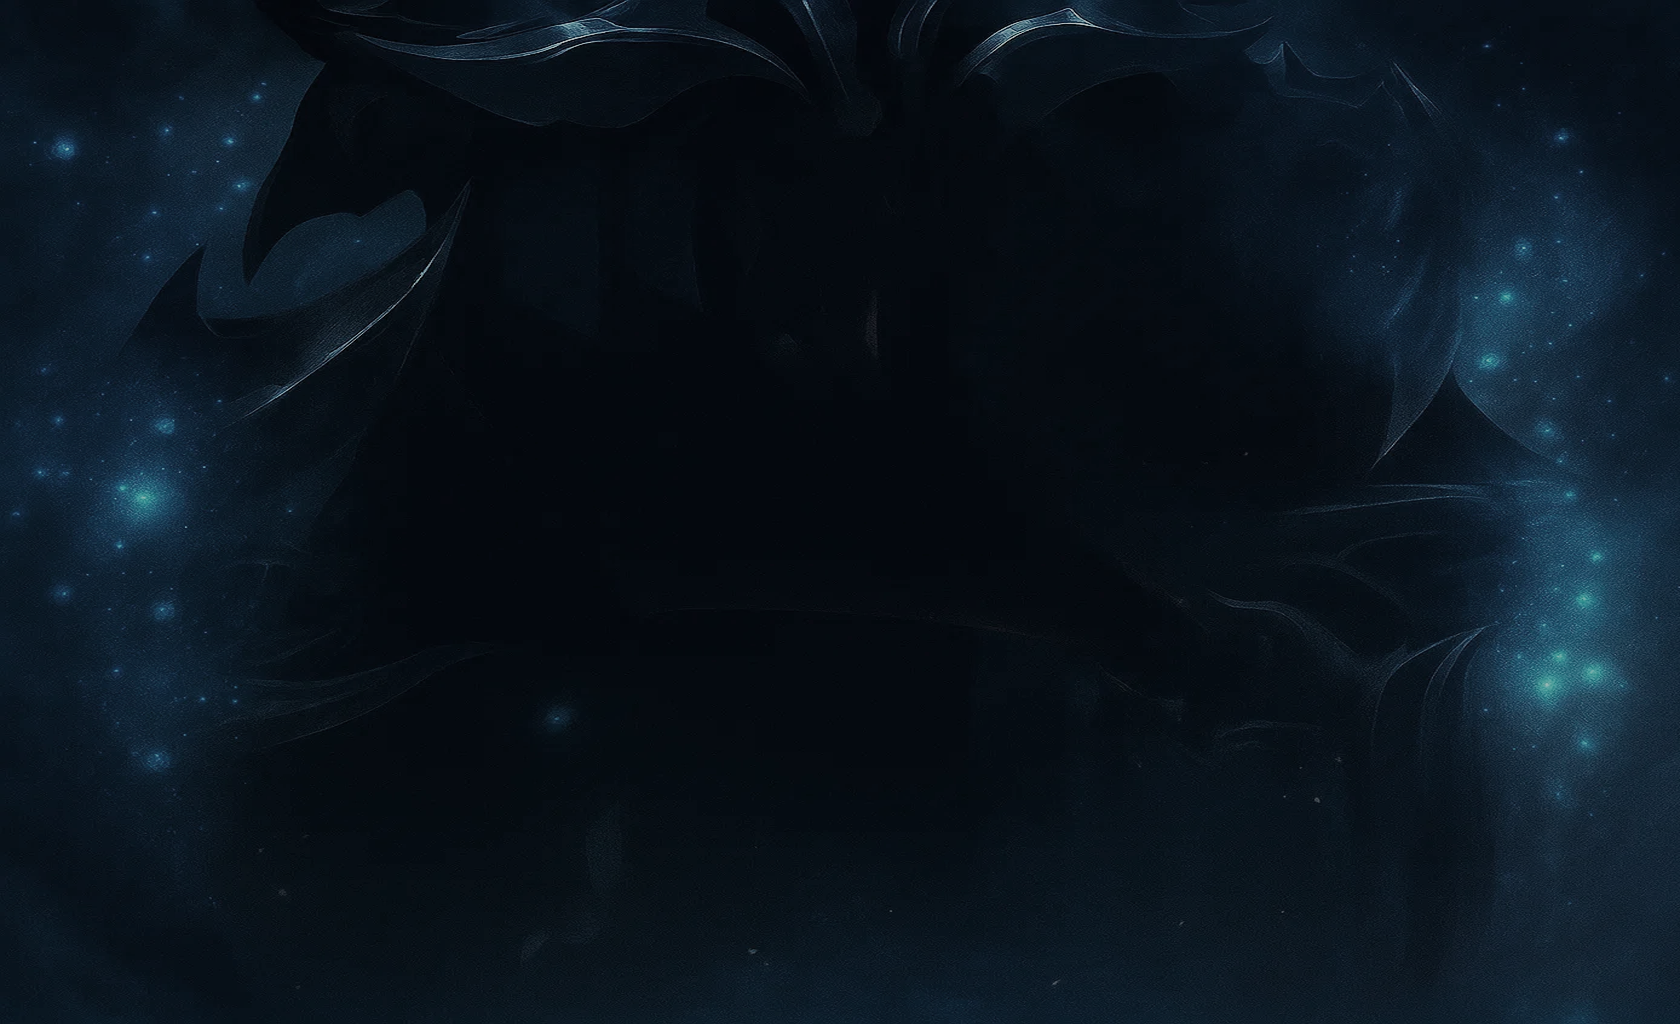
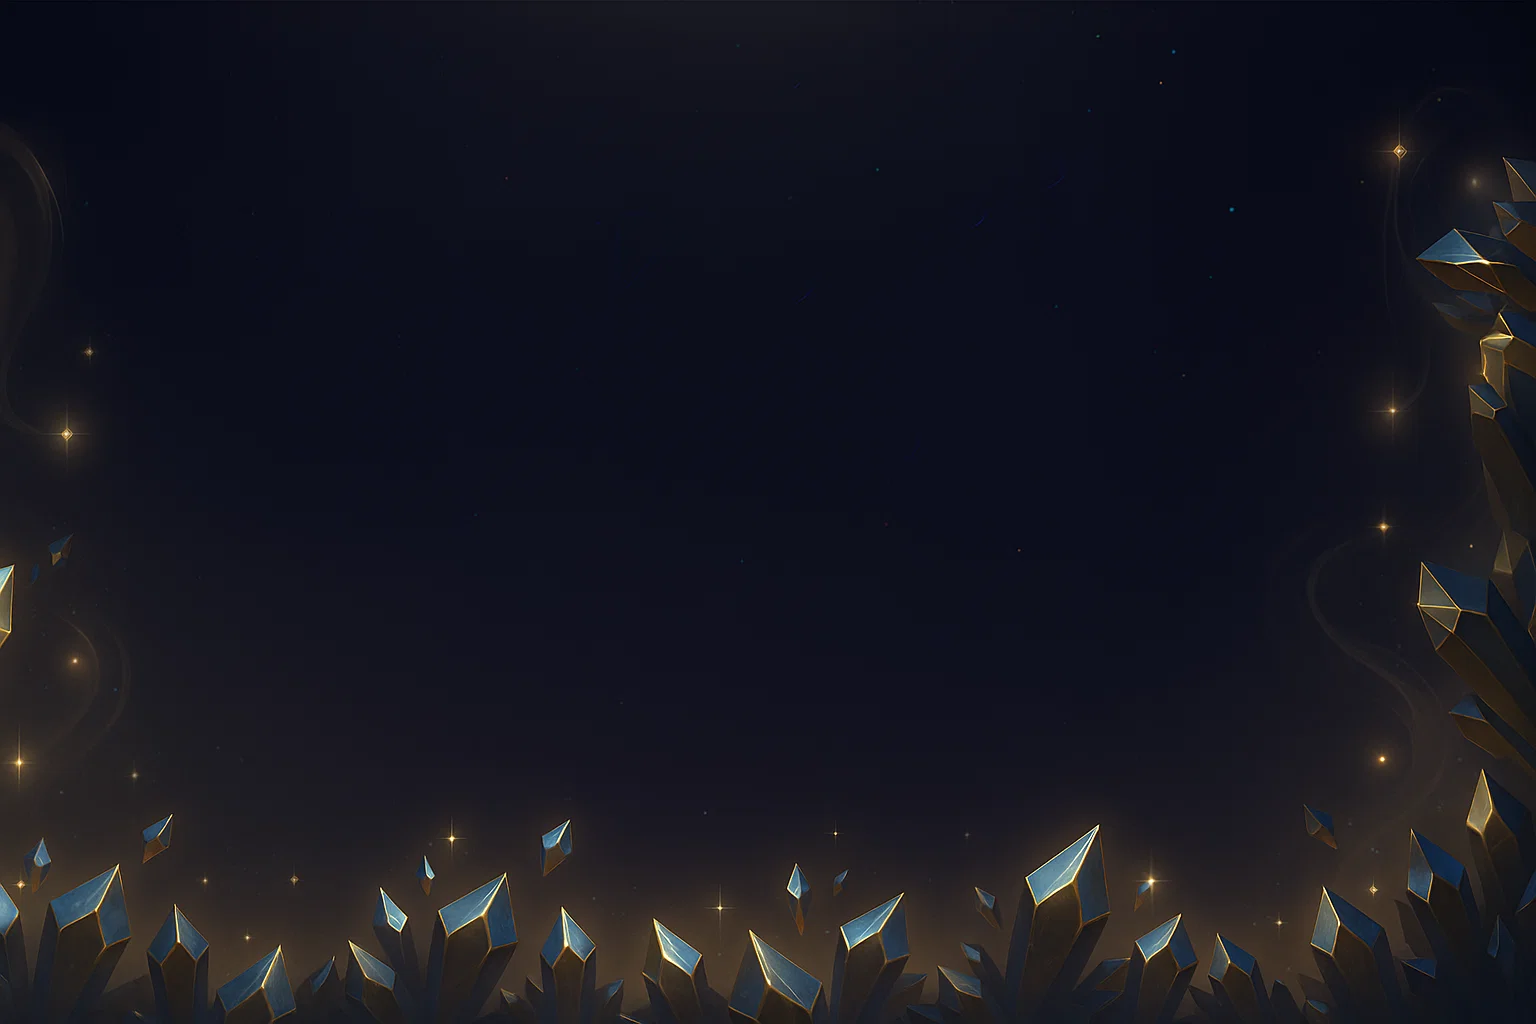
ranked bg.

diff --git a/src/pages/Ranked/Ranked.tsx b/src/pages/Ranked/Ranked.tsx
@@ -175,7 +175,13 @@ const Ranked: React.FC = () => {
 
             switch (sortBy) {
                 case 'essencer': {
-                    // Count completed accounts per essencer for primary sorting
+                    // First: number of wins (descending)
+                    const winsComparison = b.wins.current - a.wins.current;
+                    if (winsComparison !== 0) {
+                        return winsComparison;
+                    }
+
+                    // Second: essencer with most completed accounts (descending)
                     const getEssencerCompletedCount = (essencerName: string) => {
                         return dataToSort.filter(account =>
                             account.name === essencerName &&
@@ -183,13 +189,22 @@ const Ranked: React.FC = () => {
                             account.wins.current >= account.wins.totals
                         ).length;
                     };
-
                     const aCompletedCount = getEssencerCompletedCount(a.name);
                     const bCompletedCount = getEssencerCompletedCount(b.name);
+                    if (aCompletedCount !== bCompletedCount) {
+                        return bCompletedCount - aCompletedCount;
+                    }
 
-                    // Primary sort: by number of completed accounts (descending)
-                    primaryComparison = bCompletedCount - aCompletedCount;
-                    break;
+                    // Third: bloodline order (primogenit, porveldam, spadelline, zephiroth, gladasmy)
+                    const bloodlineOrder = ['primogenit', 'porveldam', 'spadelline', 'zephiroth', 'gladasmy'];
+                    const aBloodlineIndex = bloodlineOrder.indexOf(a.bloodline.toLowerCase());
+                    const bBloodlineIndex = bloodlineOrder.indexOf(b.bloodline.toLowerCase());
+                    if (aBloodlineIndex !== bBloodlineIndex) {
+                        return aBloodlineIndex - bBloodlineIndex;
+                    }
+
+                    // Final tie-breaker: stable by essencer name
+                    return a.name.localeCompare(b.name);
                 }
                 case 'tier-soloq': {
                     // Sort by tier and division (tier priority, then division)
@@ -239,20 +254,6 @@ const Ranked: React.FC = () => {
             // If primary comparison is not 0, return it
             if (primaryComparison !== 0) {
                 return primaryComparison;
-            }
-
-            // For essencer sort, group accounts by essencer name
-            if (sortBy === 'essencer') {
-                const essencerComparison = a.name.localeCompare(b.name);
-                if (essencerComparison !== 0) {
-                    return essencerComparison;
-                }
-
-                // Within the same essencer, sort by bloodline
-                const bloodlineOrder = ['primogenit', 'porveldam', 'spadelline', 'zephiroth', 'gladasmy'];
-                const aBloodlineIndex = bloodlineOrder.indexOf(a.bloodline.toLowerCase());
-                const bBloodlineIndex = bloodlineOrder.indexOf(b.bloodline.toLowerCase());
-                return aBloodlineIndex - bBloodlineIndex;
             }
 
             // Secondary sort: by number of accounts per essencer (descending)

diff --git a/src/pages/Ranked/Ranked.module.scss b/src/pages/Ranked/Ranked.module.scss
@@ -4,10 +4,9 @@
     width: 100%;
     height: 100%;
     background-image: url('/images/bg/bg.png');
-    background-size: cover;
-    background-position: center;
+    background-size: 110% 110%;
+    background-position: top;
     background-repeat: no-repeat;
-    background-attachment: fixed;
     @include flex-col;
 }
 
@@ -15,11 +14,9 @@
   width: 92%;
   height: 80%;
   margin-top: 5%;
-  @include flex-col-start-between;
-  background-color: rgba(0, 0, 0, 0.6);
-  padding: 1%;
-  border-radius: 15px;
+  padding: 2%;
   position: relative;
+  @include flex-col-start-between;
   // background-color: red;
 }
 
@@ -181,6 +178,7 @@
     display: flex;
     flex-direction: column;
     gap: $spacing-lg;
+    backdrop-filter: blur(10px);
     // background-color: red;
 }
 
